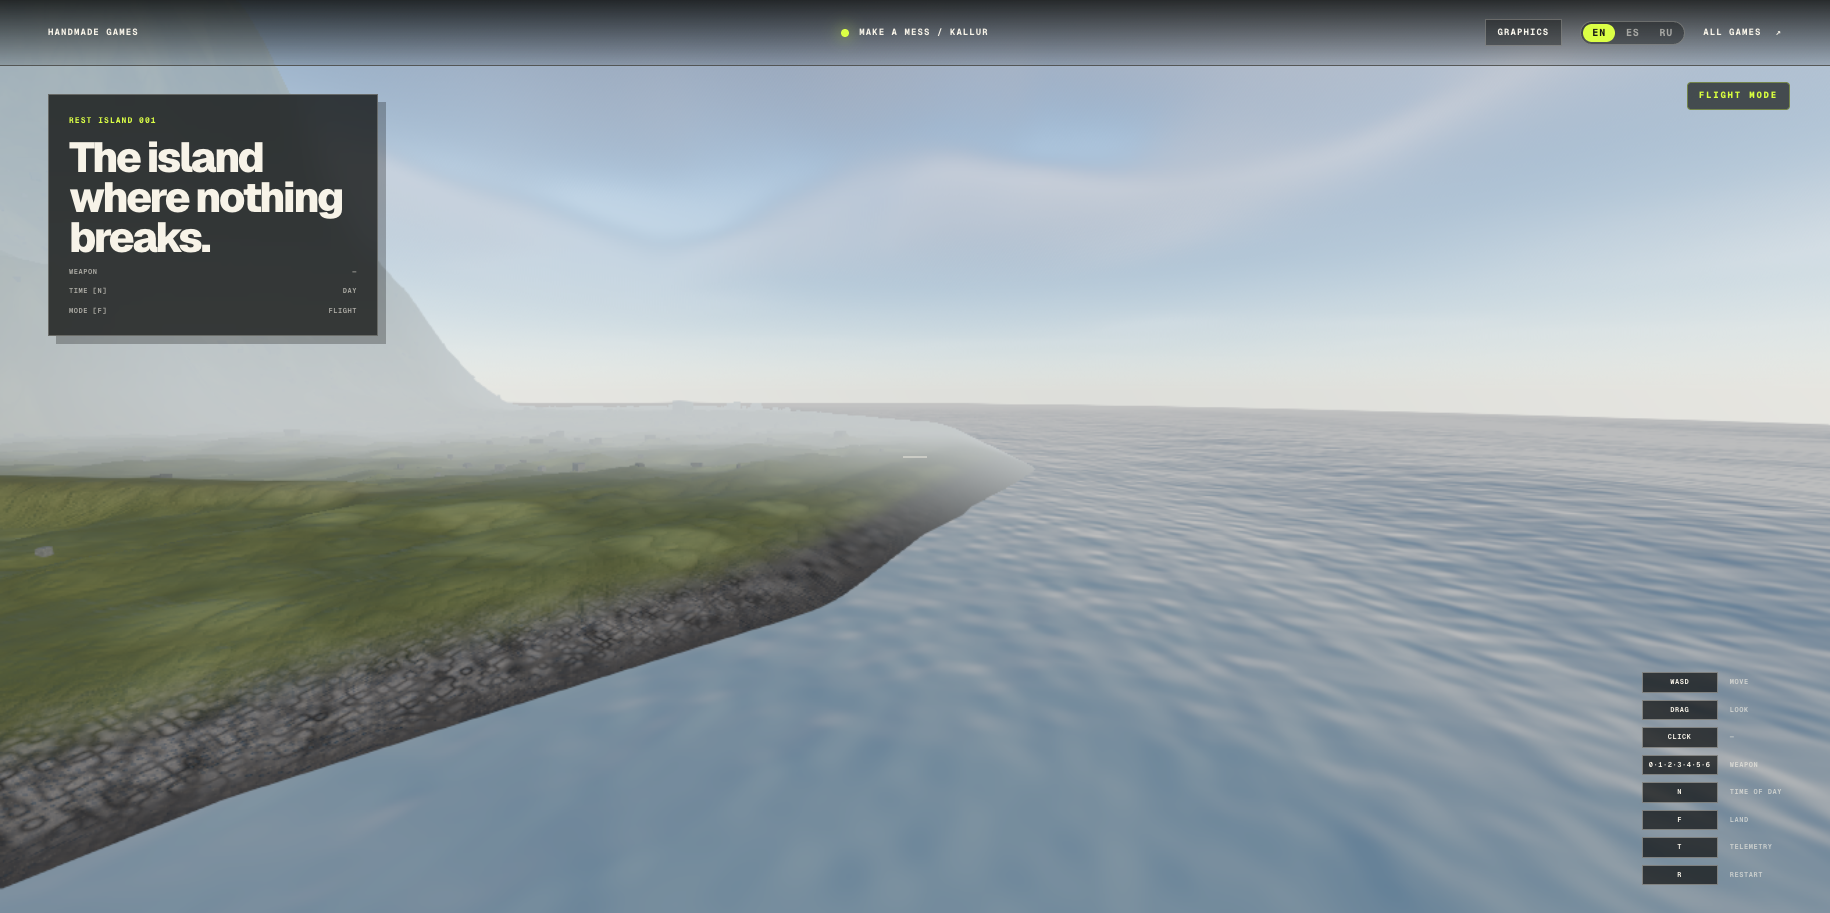
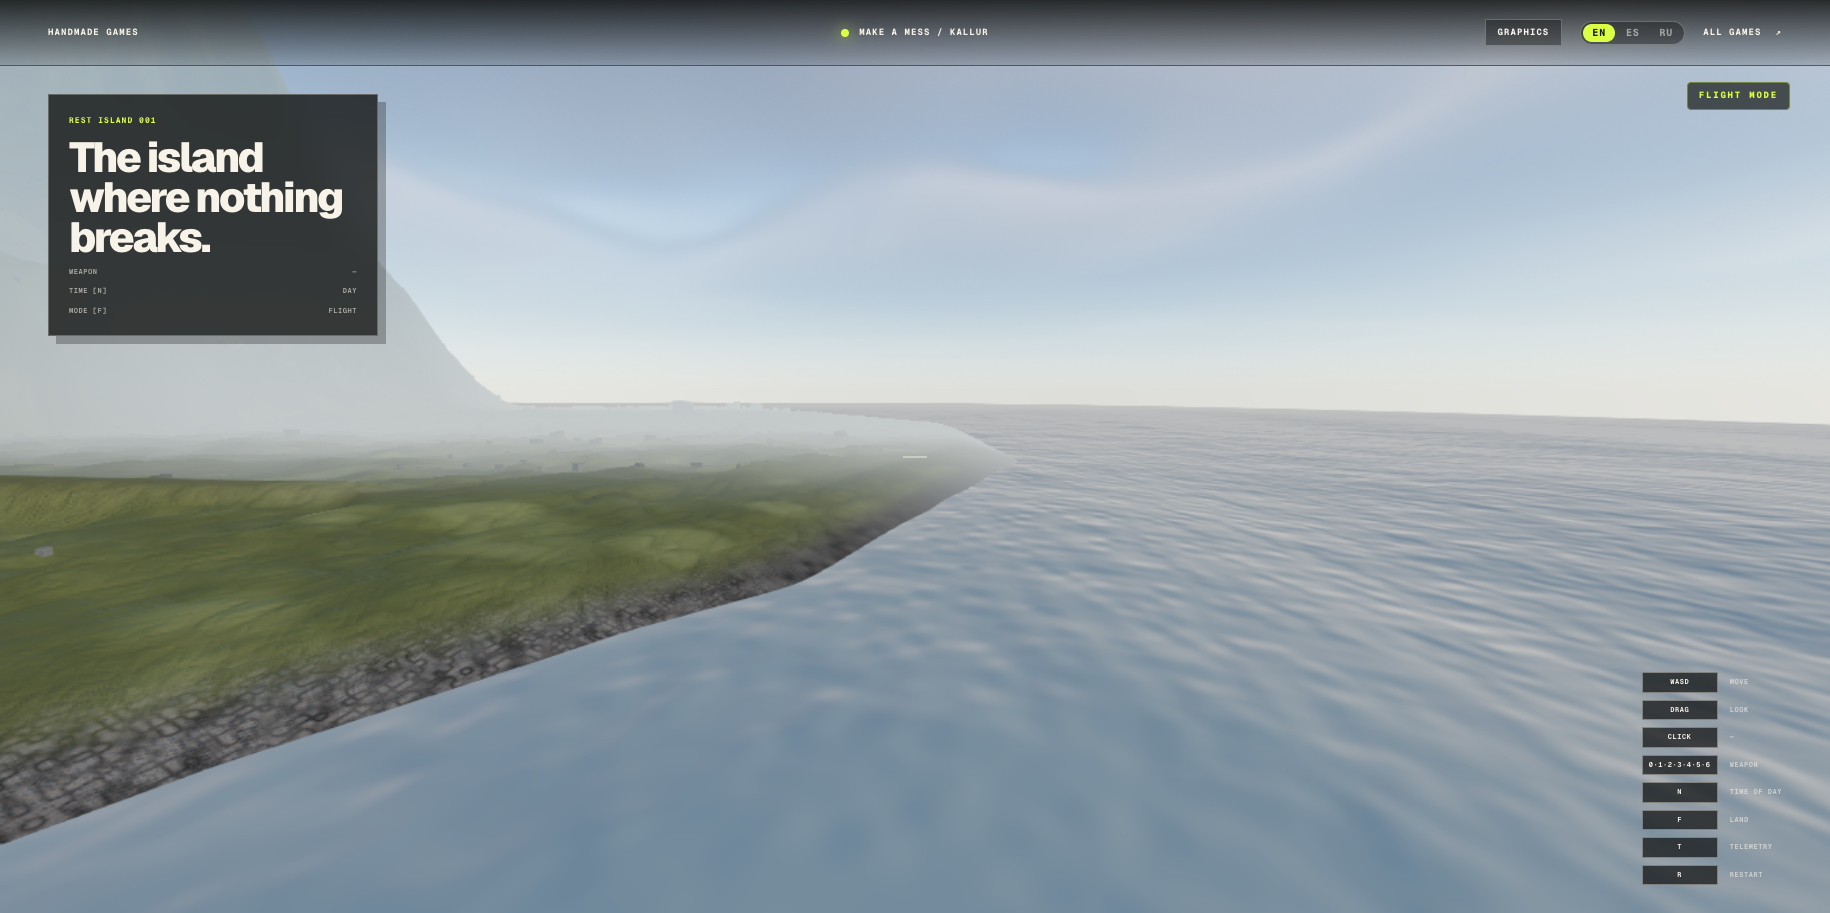
feat(kallur): shingle on every gentle waterline; bake-cost guards
The beach gate now admits every walkable descent (slope under ~1.5) and
yields only where true rock plunges past ~2.2 - Igor: gentle shelving
coasts wear the shingle, bare rock stays bare. Startup accounting for
the apron, measured against a pre-apron worktree baseline: +1-1.5 s of
one-time content bake (the field genuinely grew by the coastal strip);
the runtime lattice path is untouched and per-frame cost is unchanged.
Two guards trim the raw-sampler traffic: stones pay the four-probe edge
margin only after every cheap rejection, and deep-inland samples skip
the 17-segment coast scan by one hypot test.

diff --git a/games/make-a-mess/src/content/landscape/landscapeSampler.ts b/games/make-a-mess/src/content/landscape/landscapeSampler.ts
@@ -281,6 +281,28 @@ export function createLandscapeSampler(document: LandscapeDocument): LandscapeSa
   // Coastal apron: signed distance to the LAND edge and the arc kind of
   // the nearest shoreline segment. Positive distance = seaward of land.
   const apron = document.coastApron;
+  // Deep-inland skip: the 17-segment coast scan on EVERY raw sample was
+  // ~20% of the world bake. A point closer to the shoreline's centroid
+  // than its innermost reach minus the whole coastal band cannot feel the
+  // coast — one hypot instead of the scan.
+  let apronCentroidX = 0;
+  let apronCentroidZ = 0;
+  let apronInnerReach = 0;
+  if (apron) {
+    for (const [px, pz] of apron.shoreline) {
+      apronCentroidX += px / apron.shoreline.length;
+      apronCentroidZ += pz / apron.shoreline.length;
+    }
+    let minimum = Infinity;
+    for (const [px, pz] of apron.shoreline) {
+      minimum = Math.min(
+        minimum,
+        Math.hypot(px - apronCentroidX, pz - apronCentroidZ),
+      );
+    }
+    apronInnerReach = minimum -
+      Math.max(apron.beach.width, apron.cliff.width) - 10;
+  }
   const apronAt = apron
     ? (x: number, z: number) => {
       let best = Infinity;
@@ -328,7 +350,10 @@ export function createLandscapeSampler(document: LandscapeDocument): LandscapeSa
       };
     }
 
-    if (apronAt) {
+    if (
+      apronAt &&
+      Math.hypot(x - apronCentroidX, z - apronCentroidZ) > apronInnerReach
+    ) {
       const coast = apronAt(x, z);
       if (coast.seaward > 0) {
         // Seaward of the land edge: the apron owns the ground. It starts
@@ -413,7 +438,10 @@ export function createLandscapeSampler(document: LandscapeDocument): LandscapeSa
       // lattice spans with a chain of vertical turf shards along the
       // whole shoreline.
       let shoreCalm = 1;
-      if (apronAt) {
+      if (
+        apronAt &&
+        Math.hypot(x - apronCentroidX, z - apronCentroidZ) > apronInnerReach
+      ) {
         const coast = apronAt(x, z);
         const inland = -coast.seaward;
         const fadeT = Math.max(0, Math.min(1, (inland - 1) / 5));

diff --git a/games/make-a-mess/src/content/scenes/kallur/kallurStoneField.ts b/games/make-a-mess/src/content/scenes/kallur/kallurStoneField.ts
@@ -104,17 +104,18 @@ export function generateKallurStones(
 
   const admits = (x: number, z: number, size: number): boolean => {
     if (baseSampler.sample(x, z).groundKind !== "land") return false;
-    // Edge margin: a stone whose CENTRE is the last land sample still
-    // hangs its crown over the coastal apron — require land around it.
-    for (const [mx, mz] of [[1.3, 0], [-1.3, 0], [0, 1.3], [0, -1.3]] as const) {
-      if (baseSampler.sample(x + mx, z + mz).groundKind !== "land") return false;
-    }
     if (pathDistance(x, z) < PATH_CLEARANCE + size / 2) return false;
     if (padDistance(x, z) < 0.5 + size / 2) return false;
     const gradient = gradientAt(x, z);
     // Stones live in turf, not on the cliff; past ~2.2 the tint is stone
     // already and a bedded boulder has nothing to sit in.
     if (gradient > 2.2) return false;
+    // Edge margin LAST — four raw-sampler probes are the expensive test,
+    // so only candidates that survived every cheap gate pay for it (the
+    // early version cost ~180k extra raw samples at world start).
+    for (const [mx, mz] of [[1.3, 0], [-1.3, 0], [0, 1.3], [0, -1.3]] as const) {
+      if (baseSampler.sample(x + mx, z + mz).groundKind !== "land") return false;
+    }
     const key = cellKey(x, z);
     const taken = occupied.get(key) ?? 0;
     if (taken >= (size > 1.2 ? 1 : 2)) return false;

diff --git a/games/make-a-mess/src/game/materialTextures.ts b/games/make-a-mess/src/game/materialTextures.ts
@@ -2424,8 +2424,11 @@ if (kallurProfileOn > 0.5) {
   // for dark volcanic shingle and sand (the cascade's beach profile); the
   // wet band darkens toward the waterline. Steep low faces stay with the
   // wall handover below.
+  // Any gently-shelving waterline wears the shingle (Igor, 21.08): the
+  // gate admits everything a walker could descend (slope under ~1.5) and
+  // yields only where true rock plunges (slope past ~2.2, up.y < 0.42).
   float kallurBeach = smoothstep(2.1, 1.4, vMaterialCoordinate.y)
-    * smoothstep(0.55, 0.75, kallurUp.y);
+    * smoothstep(0.42, 0.55, kallurUp.y);
   if (kallurBeach > 0.001) {
     vec3 kallurBeachColor = nscBeachAlbedo(
       kallurPoint, vMaterialCoordinate.y, kallurLit, kallurFootprint);
